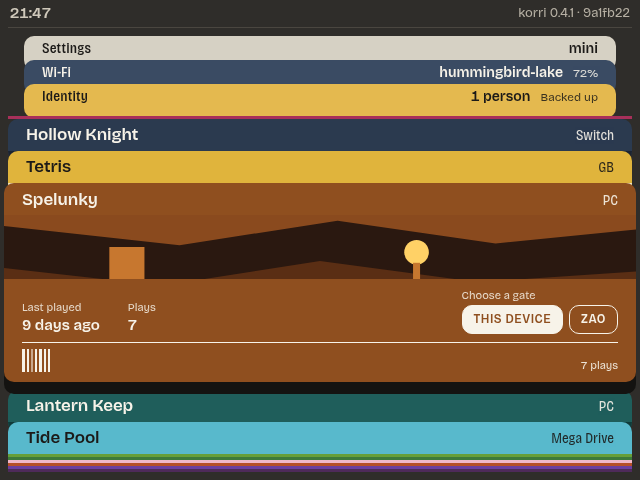
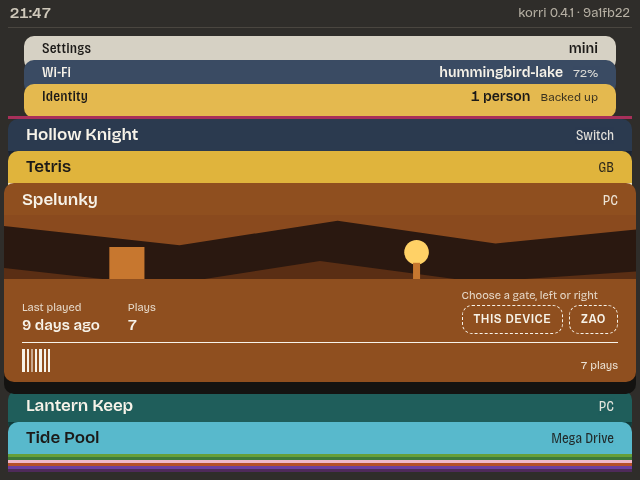
docs(design): wallet lights no gate until the person picks one
The treaty says a surface must ask when a game has more than one launch
location, never select silently. The pulled two-gate pass now shows both
gates dashed and unlit with the label "Choose a gate, left or right";
left/right lights one, and A with none lit shakes the gates.

Changed region(s): [[0.7188, 0.5938, 0.9375, 0.7188]]

diff --git a/docs/design/surfaces/wallet/index.html b/docs/design/surfaces/wallet/index.html
@@ -110,6 +110,10 @@ body{
   border:1.5px solid var(--t); color:var(--t); white-space:nowrap;
 }
 .gate.on{ background:var(--t); color:var(--c) }
+.gates.unchosen .gate{ border-style:dashed }
+.gates.shake{ animation:shake .3s }
+@keyframes shake{ 25%{transform:translateX(-4px)} 75%{transform:translateX(4px)} }
+@media (prefers-reduced-motion:reduce){ .gates.shake{ animation:none } }
 /* foot: the tally of plays drawn as a barcode */
 .bars{
   flex:none; height:30px; margin:0 18px 10px; display:flex; align-items:stretch;
@@ -193,7 +197,7 @@ const svg = (k) => `<svg viewBox="0 0 720 120" preserveAspectRatio="xMidYMid sli
 /* ---------- state ---------- */
 const NI = ISSUERS.length;
 let pulled = NI + 3; // Spelunky (index into issuers + games)
-let gate = 0;        // THIS DEVICE
+let gate = -1;       // no gate lit until the person picks one (the treaty forbids a silent default)
 const esc = (s) => s.replace(/[&<>]/g, (ch) => ({"&":"&amp;","<":"&lt;",">":"&gt;"}[ch]));
 
 /* ---------- render passes once ---------- */
@@ -224,7 +228,7 @@ for (const g of GAMES){
     `<div class="strip">${strip}</div>` +
     `<div class="fields"><div class="field"><div class="l">Last played</div><div class="v">${g.last}</div></div>` +
       `<div class="field"><div class="l">Plays</div><div class="v">${g.plays}</div></div>` +
-      `<div class="field gatef"><div class="l">${g.places.length > 1 ? "Choose a gate" : (g.places[0]==="zao" ? "Gate, streams from zao" : "Gate")}</div>` +
+      `<div class="field gatef"><div class="l">${g.places.length > 1 ? "Choose a gate, left or right" : (g.places[0]=="zao" ? "Gate, streams from zao" : "Gate")}</div>` +
       `<div class="gates">${g.places.map((p,i)=>`<span class="gate${g.places.length === 1 ? " on" : ""}" data-i="${i}">${PLACE[p]}</span>`).join("")}</div></div></div>` +
     `<div class="bars ${g.plays ? "" : "empty"}" aria-label="${g.plays} plays">` +
       Array.from({length:g.plays}, ()=>`<i class="b"></i>`).join("") +
@@ -272,6 +276,7 @@ function layout(){
   if (pulled >= NI) pulledEl.querySelectorAll(".gate").forEach((gEl, i) => {
     if (GAMES[pulled - NI].places.length > 1) gEl.classList.toggle("on", i === gate);
   });
+  if (pulled >= NI) pulledEl.querySelector(".gates")?.classList.toggle("unchosen", GAMES[pulled - NI].places.length > 1 && gate < 0);
 
   // pinned issuer cards: always at the top of the pocket; a pulled one opens in place
   let y = 0;
@@ -318,10 +323,11 @@ layout();
 addEventListener("keydown", (e) => {
   const g = GAMES[pulled - NI];
   const last = NI + GAMES.length - 1;
-  if (e.key === "ArrowDown") { pulled = Math.min(last, pulled + 1); gate = 0; layout(); }
-  else if (e.key === "ArrowUp") { pulled = Math.max(0, pulled - 1); gate = 0; layout(); }
-  else if (e.key === "ArrowRight" && g) { gate = Math.min(g.places.length - 1, gate + 1); layout(); }
-  else if (e.key === "ArrowLeft" && g) { gate = Math.max(0, gate - 1); layout(); }
+  if (e.key === "ArrowDown") { pulled = Math.min(last, pulled + 1); gate = -1; layout(); }
+  else if (e.key === "ArrowUp") { pulled = Math.max(0, pulled - 1); gate = -1; layout(); }
+  else if (e.key === "ArrowRight" && g) { gate = gate < 0 ? 0 : Math.min(g.places.length - 1, gate + 1); layout(); }
+  else if (e.key === "ArrowLeft" && g) { gate = gate < 0 ? g.places.length - 1 : Math.max(0, gate - 1); layout(); }
+  else if (e.key === "Enter" && g && g.places.length > 1 && gate < 0) { const gs = document.querySelector(".pulled .gates"); gs.classList.remove("shake"); void gs.offsetWidth; gs.classList.add("shake"); }
   else return;
   e.preventDefault();
 });

diff --git a/docs/design/surfaces/wallet/DIRECTION.md b/docs/design/surfaces/wallet/DIRECTION.md
@@ -1,6 +1,6 @@
 # Wallet
 
-**Skeleton.** A vertical stack of passes with one pulled forward: up/down moves which pass is pulled, A plays the pulled game pass, left/right picks a gate (THIS DEVICE, ZAO) on a two-place pass, B drops the pass back into the stack. Settings, Wi-Fi and Identity are three issuer cards pinned in the pocket at the top of the stack (inset, narrower than game passes, no cover); their compressed edges carry their live values (mini; hummingbird-lake 72%; 1 person, Backed up), so the route to them is visible from the library.
+**Skeleton.** A vertical stack of passes with one pulled forward: up/down moves which pass is pulled, A plays the pulled game pass, left/right picks a gate (THIS DEVICE, ZAO) on a two-place pass, where no gate is lit until the person picks one (dashed chips until then), B drops the pass back into the stack. Settings, Wi-Fi and Identity are three issuer cards pinned in the pocket at the top of the stack (inset, narrower than game passes, no cover); their compressed edges carry their live values (mini; hummingbird-lake 72%; 1 person, Backed up), so the route to them is visible from the library.
 
 **Memorable element.** The stack compressing around the pulled pass: every other pass shows only its top edge (44 px at 720 high, 32 px at 480), the pulled pass comes forward to full height, 12 px wider, with one hard offset shadow. Passes that do not fit fold to 3 px coloured slivers at the ends of the stack, so the full length of the wallet is always implied.
 
@@ -29,7 +29,7 @@
 C1  Loading: edges without values; Error: a Korri issuer card under Identity carries the message as its field and a Reload chip; Empty: the three issuer cards and a lining line "No passes yet"; Ready: the stack
 C2  Passes in catalog order; a section is a lining-ink label between edges (a pocket tab); subtitle takes the edge row's system slot; wide art fills the strip, else the cover; no cover = title strip
 C3  Fields row on the pulled pass: Last played, Plays, Play time and Gate; the barcode foot is the play tally, one bar per play; the Resume chip on the edge row marks resumable
-C4  A plays the pulled pass through the lit gate; on a two-gate pass no gate is lit until left/right picks one, A with none lit shakes the gates (the mockup lights THIS DEVICE early)
+C4  A plays the pulled pass through the lit gate; on a two-gate pass no gate is lit until left/right picks one, A with none lit shakes the gates
 C5  options flips the pulled pass to its back: gameActions as rows with their description, dimmed when disabled; a destructive row is red-ruled and needs a second confirm chip
 C6  Up past Settings pulls a Find slip from the pocket's top: a thin lining-coloured pass with a text field and the back's keyboard; typed letters fold non-matching passes to slivers
 C7  A notification strip drops under the status row in the pass's own colour: pass name, kicker and detail; host actions (Cancel) as chips at its right; the pass stays pulled
